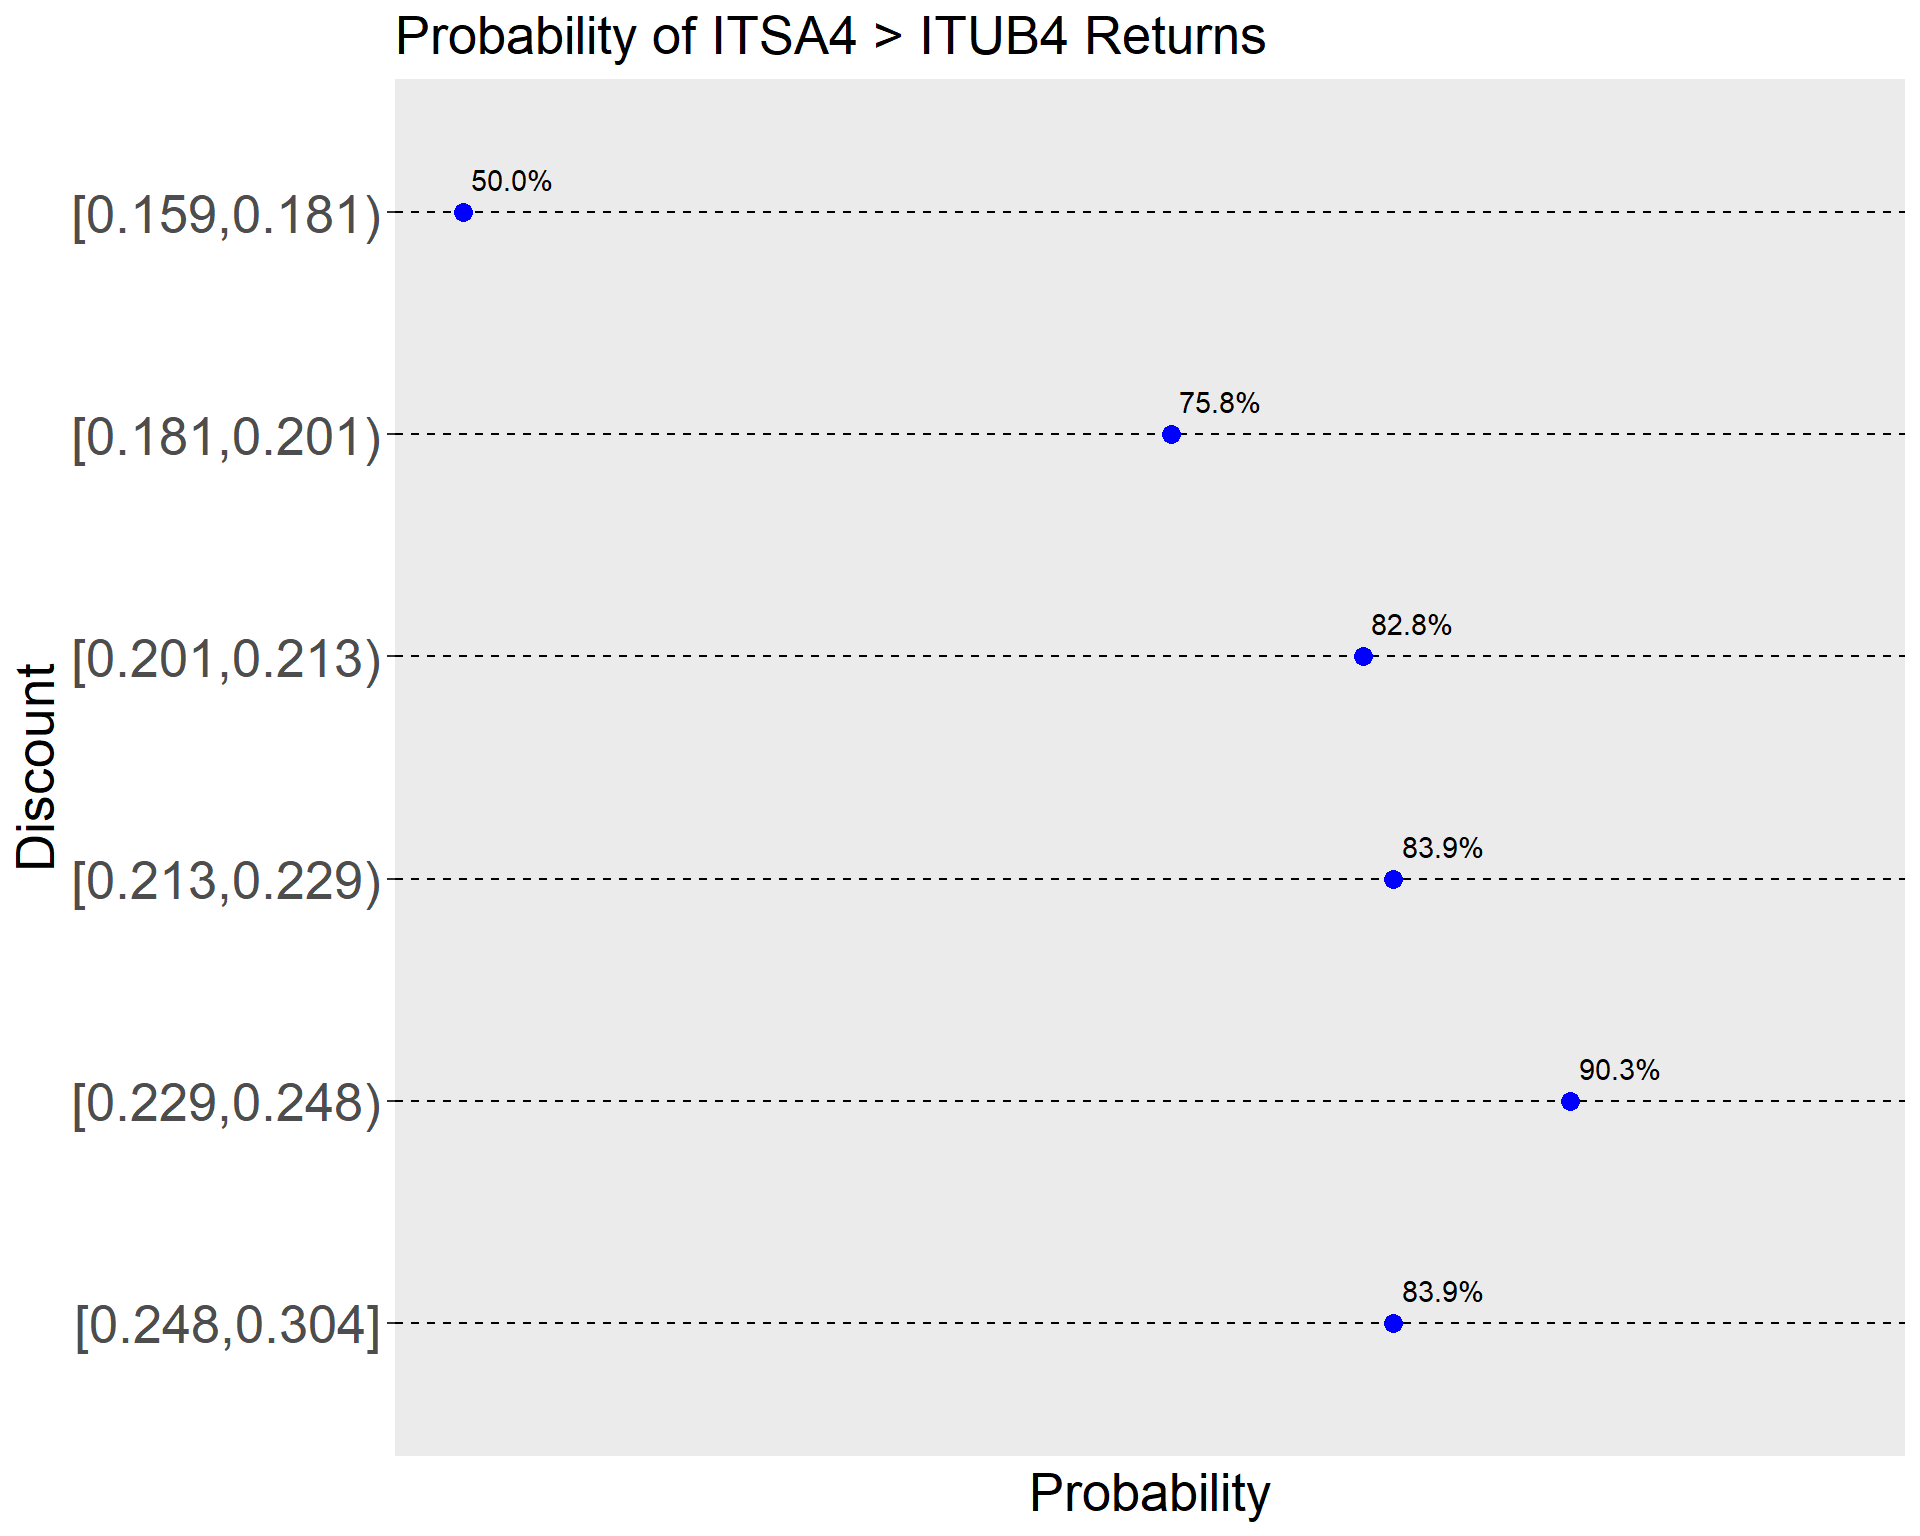
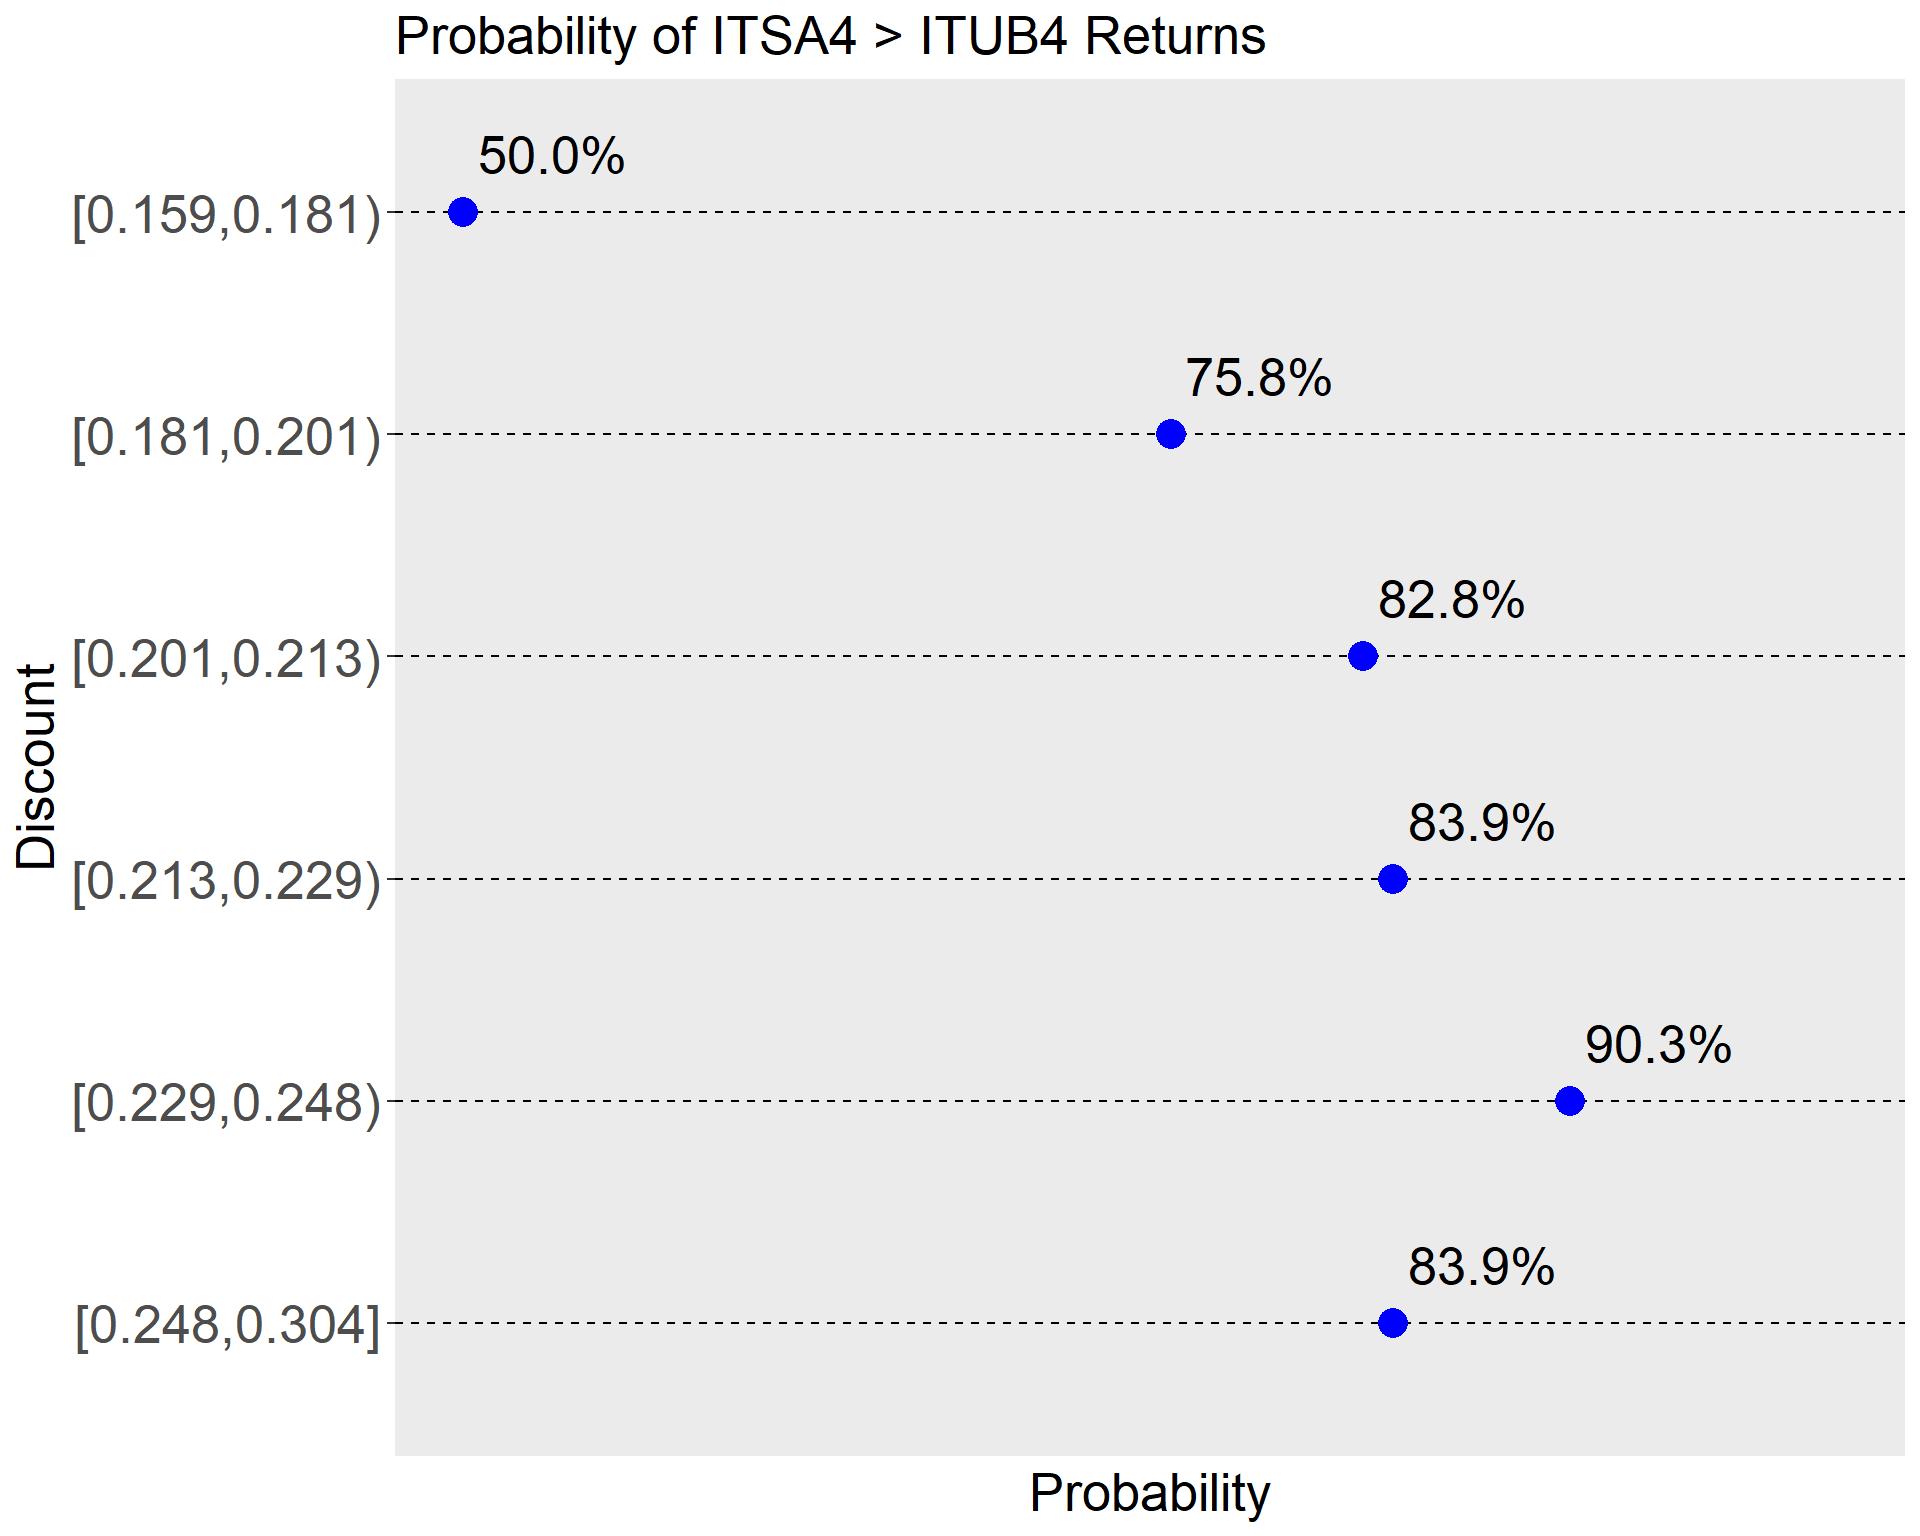
Update post

diff --git a/content/post/2021-07-31-arbitrate-itsa4-itub4/index.en.html b/content/post/2021-07-31-arbitrate-itsa4-itub4/index.en.html
@@ -223,7 +223,7 @@ data %&gt;%
   group_by(discount_cat) %&gt;%
   summarise(prob = sum(success) / length(success)) %&gt;%
   ggplot(aes(x = prob, y = discount_cat)) + 
-  geom_point(size = 3, color=&quot;blue&quot;) + 
+  geom_point(size = 5, color=&quot;blue&quot;) + 
   scale_y_discrete(limits = rev(levels(data$discount_cat))) + 
   theme(panel.grid.major.x=element_blank(),
         panel.grid.minor.x=element_blank(),
@@ -236,7 +236,7 @@ data %&gt;%
   labs(x = &quot;Probability&quot;,
        y = &quot;Discount&quot;,
        title = &quot;Probability of ITSA4 &gt; ITUB4 Returns&quot;) + 
-  geom_text(aes(label = percent(prob)), hjust = -.1, vjust = -1) + 
+  geom_text(aes(label = percent(prob)), hjust = -.1, vjust = -1, size=7) + 
   xlim(c(.5,1))</code></pre>
 <p><img src="{{< blogdown/postref >}}index.en_files/figure-html/success%20probability-1.png" width="960" /></p>
 <p>As expected, the higher the discount, the higher the probability of ITSA4 returns exceed ITUB4 returns. But, again, paradoxically, there is a drop on success probability in the maximum range of discount (24.8% to 30.4%). We could suspect that success depends on other factors than discount - for instance, when the observations were obtained (or, in other words, the passage of time). We can check this coloring time series’ discount, by success or failure:</p>
